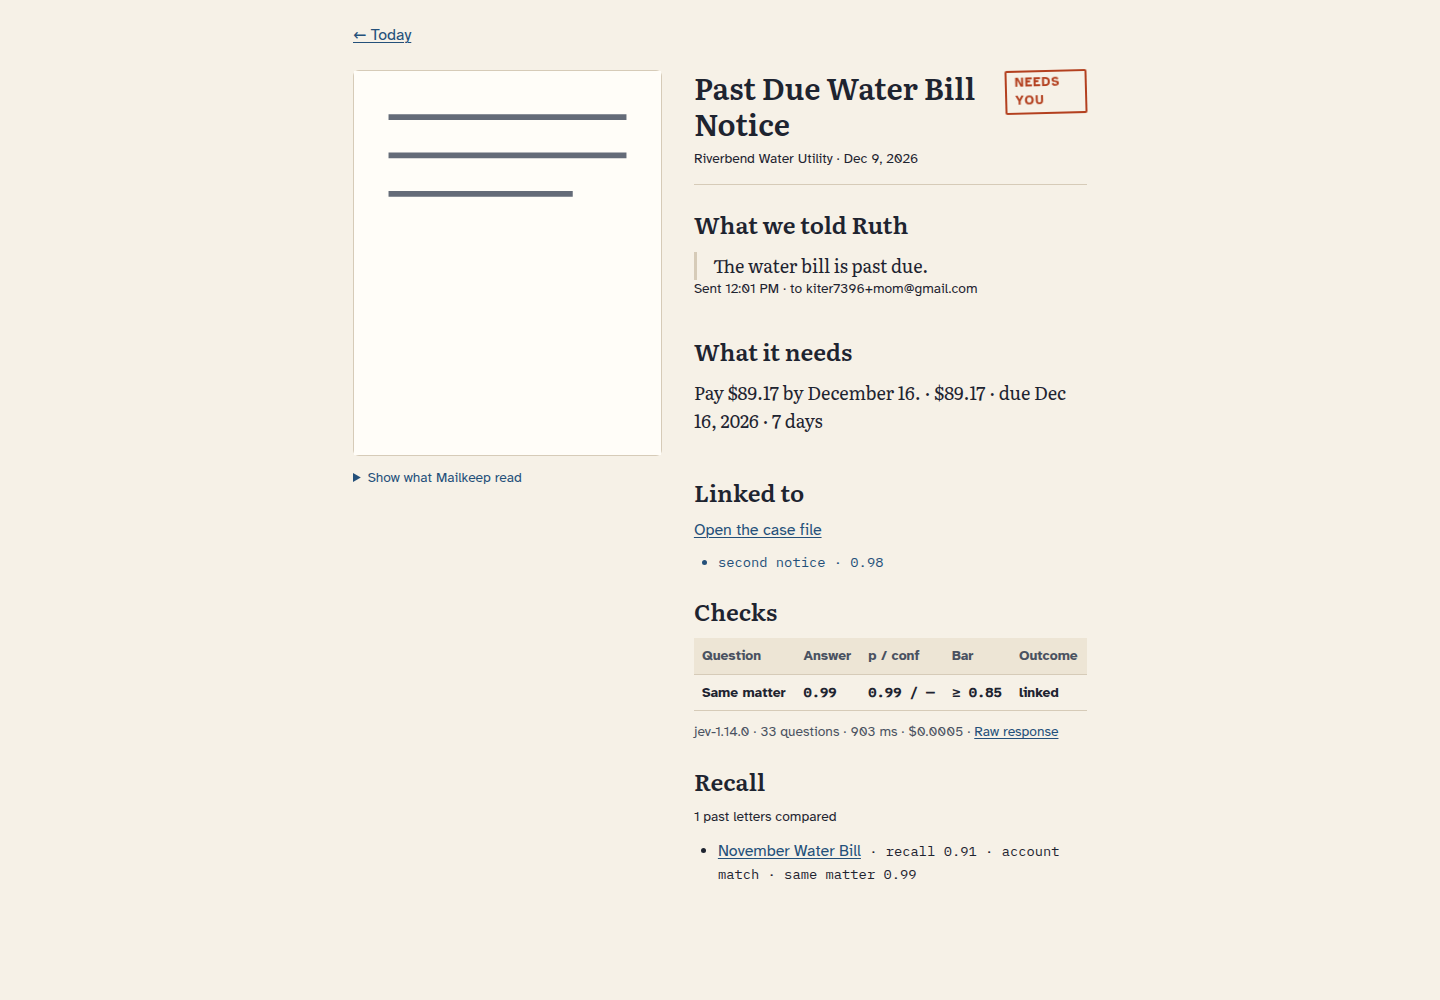
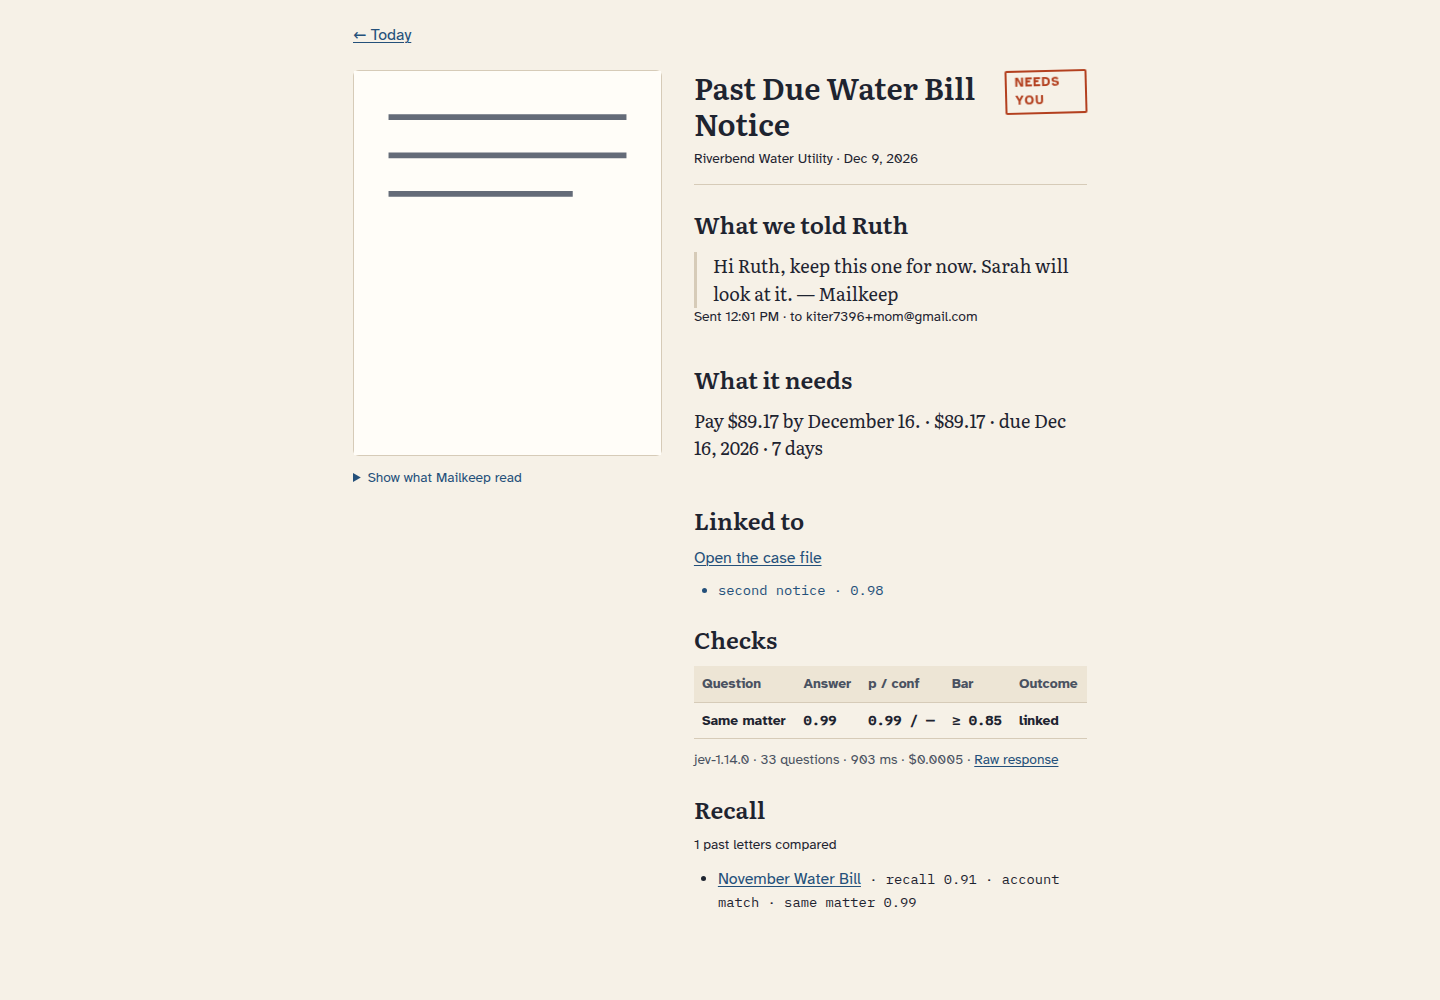
T41: Fix demo clock and parent safety copy

Changed region(s): [[0.4688, 0.248, 0.75, 0.93]]

diff --git a/apps/agent/src/http/routes/demo.ts b/apps/agent/src/http/routes/demo.ts
@@ -22,6 +22,7 @@ import {
   intakeFile,
 } from '../../pipeline/intake.js';
 import type { PipelineQueue } from '../../pipeline/queue.js';
+import { now as householdNow } from '../../util/clock.js';
 import { log } from '../../util/log.js';
 import { clientIp, SlidingWindowRateLimiter } from '../ratelimit.js';
 import type { Clock } from '../session.js';
@@ -105,10 +106,15 @@ function samplePath(id: DemoSampleId): string {
   return path.join(TESTSET_OUT_DIR, `${id}.jpg`);
 }
 
-function demoHousehold(db: DB, config: Config): { id: string } | undefined {
+function demoHousehold(
+  db: DB,
+  config: Config,
+): { id: string; clock_offset_days: number; timezone: string } | undefined {
   return db
-    .prepare('SELECT id FROM households WHERE id = ? AND is_demo = 1')
-    .get(config.MAILKEEP_DEMO_HOUSEHOLD_ID) as { id: string } | undefined;
+    .prepare('SELECT id, clock_offset_days, timezone FROM households WHERE id = ? AND is_demo = 1')
+    .get(config.MAILKEEP_DEMO_HOUSEHOLD_ID) as
+    | { id: string; clock_offset_days: number; timezone: string }
+    | undefined;
 }
 
 function demoLetter(db: DB, householdId: string, letterId: string): LetterRow | undefined {
@@ -157,11 +163,18 @@ function demoLetterDTO(db: DB, row: LetterRow): LetterDTO {
 
 function demoCaseDTO(db: DB, row: CaseRow): CaseDTO {
   const dto = buildCaseDTO(db, row);
+  const receivedAt = new Map(dto.letters.map((letter) => [letter.id, letter.receivedAt]));
   return caseSchema.parse({
     ...dto,
     letters: dto.letters.map((letter) => ({
       ...letter,
       imageUrl: `/api/demo/letters/${encodeURIComponent(letter.id)}/image`,
+    })),
+    events: dto.events.map((event) => ({
+      ...event,
+      createdAt: event.letterId
+        ? (receivedAt.get(event.letterId) ?? event.createdAt)
+        : event.createdAt,
     })),
   });
 }
@@ -356,7 +369,10 @@ export function demoRoutes(deps: DemoDeps): Hono {
       throw error;
     }
     const now = clock();
-    const householdId = deps.config.MAILKEEP_DEMO_HOUSEHOLD_ID;
+    const household = demoHousehold(deps.db, deps.config);
+    if (!household) return context.json({ error: 'not_found' }, 404);
+    const householdId = household.id;
+    const receivedAt = householdNow(household, now).toISOString();
     const sha256 = createHash('sha256').update(bytes).digest('hex');
     const existing = recentTrial(deps.db, householdId, sha256, now);
     if (existing) return context.json(demoLetterDTO(deps.db, existing), 202);
@@ -388,7 +404,6 @@ export function demoRoutes(deps: DemoDeps): Hono {
       return context.json({ error: 'sample_conflict' }, 409);
     }
 
-    const receivedAt = now.toISOString();
     try {
       deps.db
         .prepare(
@@ -404,8 +419,8 @@ export function demoRoutes(deps: DemoDeps): Hono {
           result.mime,
           result.sha256,
           result.localPath,
-          receivedAt,
-          receivedAt,
+          now.toISOString(),
+          now.toISOString(),
         );
     } catch (error) {
       const raced = recentTrial(deps.db, householdId, sha256, now);

diff --git a/apps/web/src/routes/Letter.tsx b/apps/web/src/routes/Letter.tsx
@@ -1,4 +1,4 @@
-import { formatUsd, type LetterDTO, letterSchema } from '@mailkeep/shared';
+import { formatUsd, type LetterDTO, letterSchema, parentResultCopy } from '@mailkeep/shared';
 import { useMutation, useQuery, useQueryClient } from '@tanstack/react-query';
 import { useRef, useState } from 'react';
 import { Link, useParams } from 'react-router';
@@ -174,7 +174,9 @@ export function Letter({ demo = false }: { demo?: boolean }) {
 
               <section className="letter__section">
                 <h2>What we told Ruth</h2>
-                <blockquote>{data.summaryParent ?? 'Mailkeep read this letter.'}</blockquote>
+                <blockquote>
+                  {parentNote?.bodyText ?? data.summaryParent ?? 'Mailkeep read this letter.'}
+                </blockquote>
                 <p className="meta">
                   {parentNote?.status === 'sent' && parentNote.sentAt
                     ? `Sent ${timeFormat.format(new Date(parentNote.sentAt))} · to ${parentNote.toEmail}`
@@ -186,7 +188,9 @@ export function Letter({ demo = false }: { demo?: boolean }) {
 
               <section className="letter__section">
                 <h2>What it needs</h2>
-                {data.amountCents !== null || data.dueDate || data.todoParent ? (
+                {data.lane === 'careful' ? (
+                  <p className="letter__needs">{parentResultCopy({ lane: 'careful' })}</p>
+                ) : data.amountCents !== null || data.dueDate || data.todoParent ? (
                   <p className="letter__needs">
                     {data.todoParent ?? 'Nothing'}
                     {data.amountCents !== null ? ` · ${formatUsd(data.amountCents)}` : ''}

diff --git a/apps/web/e2e/letter.spec.ts b/apps/web/e2e/letter.spec.ts
@@ -81,6 +81,8 @@ const letter = {
       kind: 'parent_note',
       toEmail: 'kiter7396+mom@gmail.com',
       subject: 'Sarah will look at: Past Due Water Bill Notice',
+      bodyText:
+        'Hi Ruth, the water bill is unpaid and now includes a late fee. Keep it for now. Sarah will look at it. — Mailkeep',
       status: 'sent',
       suppressedReason: null,
       agentmailMessageId: 'msg_1',
@@ -146,6 +148,30 @@ for (const width of [390, 1440]) {
     ).toBe(true);
   });
 }
+
+test('CAREFUL letters show safety copy instead of the raw call-to-action', async ({ page }) => {
+  const careful = {
+    ...letter,
+    id: 'ltr_scam',
+    title: 'Verify Member Card for Benefits',
+    summaryParent: 'The health plan needs to verify member card information.',
+    todoParent: 'Call the verification line to confirm card details.',
+    lane: 'careful',
+    outbox: [
+      {
+        ...letter.outbox[0],
+        bodyText:
+          "Hi Ruth, the letter looks like a scam. Don't pay it. Don't call the number on it. — Mailkeep",
+      },
+    ],
+  };
+  await page.route('**/api/letters/ltr_scam', (route) => route.fulfill({ json: careful }));
+  await page.route('**/api/today', (route) => route.fulfill({ json: today }));
+  await page.goto('/letters/ltr_scam');
+  await expect(page.locator('blockquote')).toContainText("Don't call the number on it");
+  await expect(page.locator('.letter__needs')).toContainText("Don't call the number on it");
+  await expect(page.getByText(/Call the verification line/)).toHaveCount(0);
+});
 
 test('Letter polls through processing and flips to done', async ({ page }) => {
   let reads = 0;

diff --git a/apps/agent/test/demo.test.ts b/apps/agent/test/demo.test.ts
@@ -300,7 +300,7 @@ describe('public demo reads', () => {
       `INSERT INTO case_events
         (id, household_id, case_id, letter_id, type, actor, detail_json, created_at)
         VALUES ('evt_demo', 'hh_demo', 'case_demo', 'ltr_demo', 'opened', 'agent', '{}', ?)`,
-    ).run(clock().toISOString());
+    ).run('2026-11-23T00:00:00.000Z');
     db.prepare(
       `INSERT INTO outbox
         (id, household_id, to_email, kind, subject, body_text, related_id, status, created_at)
@@ -321,6 +321,7 @@ describe('public demo reads', () => {
     expect(caseResponse.status).toBe(200);
     const caseDto = caseSchema.parse(await caseResponse.json());
     expect(caseDto.letters[0]?.imageUrl).toBe('/api/demo/letters/ltr_demo/image');
+    expect(caseDto.events[0]?.createdAt).toBe(caseDto.letters[0]?.receivedAt);
 
     const letterResponse = await get('/api/demo/letters/ltr_demo');
     expect(letterResponse.status).toBe(200);
@@ -386,6 +387,7 @@ describe('demo sample runs', () => {
   });
 
   it('runs a known output through intake and the queue as a demo trial', async () => {
+    db.prepare("UPDATE households SET clock_offset_days = 1 WHERE id = 'hh_demo'").run();
     const response = await run(
       '/api/demo/samples/L02/run',
       {},
@@ -417,7 +419,8 @@ describe('demo sample runs', () => {
       trial: 1,
       submitted_by: null,
       status: 'queued',
-      received_at: clock().toISOString(),
+      received_at: new Date(NOW + 86_400_000).toISOString(),
+      created_at: clock().toISOString(),
     });
   });
 

diff --git a/apps/agent/src/http/routes/api.ts b/apps/agent/src/http/routes/api.ts
@@ -322,6 +322,7 @@ function outboxRows(db: DB, letter: LetterRow) {
     kind: string;
     to_email: string;
     subject: string;
+    body_text: string;
     status: string;
     suppressed_reason: string | null;
     agentmail_message_id: string | null;
@@ -420,6 +421,7 @@ export function buildLetterDTO(db: DB, row: LetterRow): LetterDTO {
       kind: outbox.kind,
       toEmail: outbox.to_email,
       subject: outbox.subject,
+      bodyText: outbox.body_text,
       status: outbox.status,
       suppressedReason: outbox.suppressed_reason,
       agentmailMessageId: outbox.agentmail_message_id,

diff --git a/playwright.config.ts b/playwright.config.ts
@@ -20,6 +20,13 @@ function cachedChromium(): string | undefined {
       );
       if (existsSync(executable)) return executable;
     }
+    const fullRevisions = readdirSync(cache)
+      .filter((entry) => /^chromium-\d+$/.test(entry))
+      .sort((left, right) => Number(right.split('-').at(-1)) - Number(left.split('-').at(-1)));
+    for (const revision of fullRevisions) {
+      const executable = path.join(cache, revision, 'chrome-linux64', 'chrome');
+      if (existsSync(executable)) return executable;
+    }
   } catch {
     return undefined;
   }

diff --git a/apps/agent/test/api.test.ts b/apps/agent/test/api.test.ts
@@ -751,6 +751,7 @@ describe('Today, case, and letter DTOs', () => {
       },
     ]);
     expect(dto.outbox.map((item) => item.id).sort()).toEqual(['out_a', 'out_ask']);
+    expect(dto.outbox.find((item) => item.id === 'out_a')?.bodyText).toBe('Body');
     expect(dto.decision).toEqual({
       modelId: 'jev-test',
       latencyMs: 123,

diff --git a/apps/web/e2e/anti-slop.spec.ts b/apps/web/e2e/anti-slop.spec.ts
@@ -131,6 +131,7 @@ const letter = {
       kind: 'parent_note',
       toEmail: 'kiter7396+mom@gmail.com',
       subject: 'Sarah will look at it',
+      bodyText: 'Hi Ruth, keep this one for now. Sarah will look at it. — Mailkeep',
       status: 'sent',
       suppressedReason: null,
       agentmailMessageId: 'msg_1',

diff --git a/packages/shared/src/dto.ts b/packages/shared/src/dto.ts
@@ -154,6 +154,7 @@ export const outboxSchema = z.object({
   kind: z.enum(OUTBOX_KINDS),
   toEmail: z.string().email(),
   subject: z.string(),
+  bodyText: z.string(),
   status: z.enum(OUTBOX_STATUSES),
   suppressedReason: nullableString,
   agentmailMessageId: nullableString,
